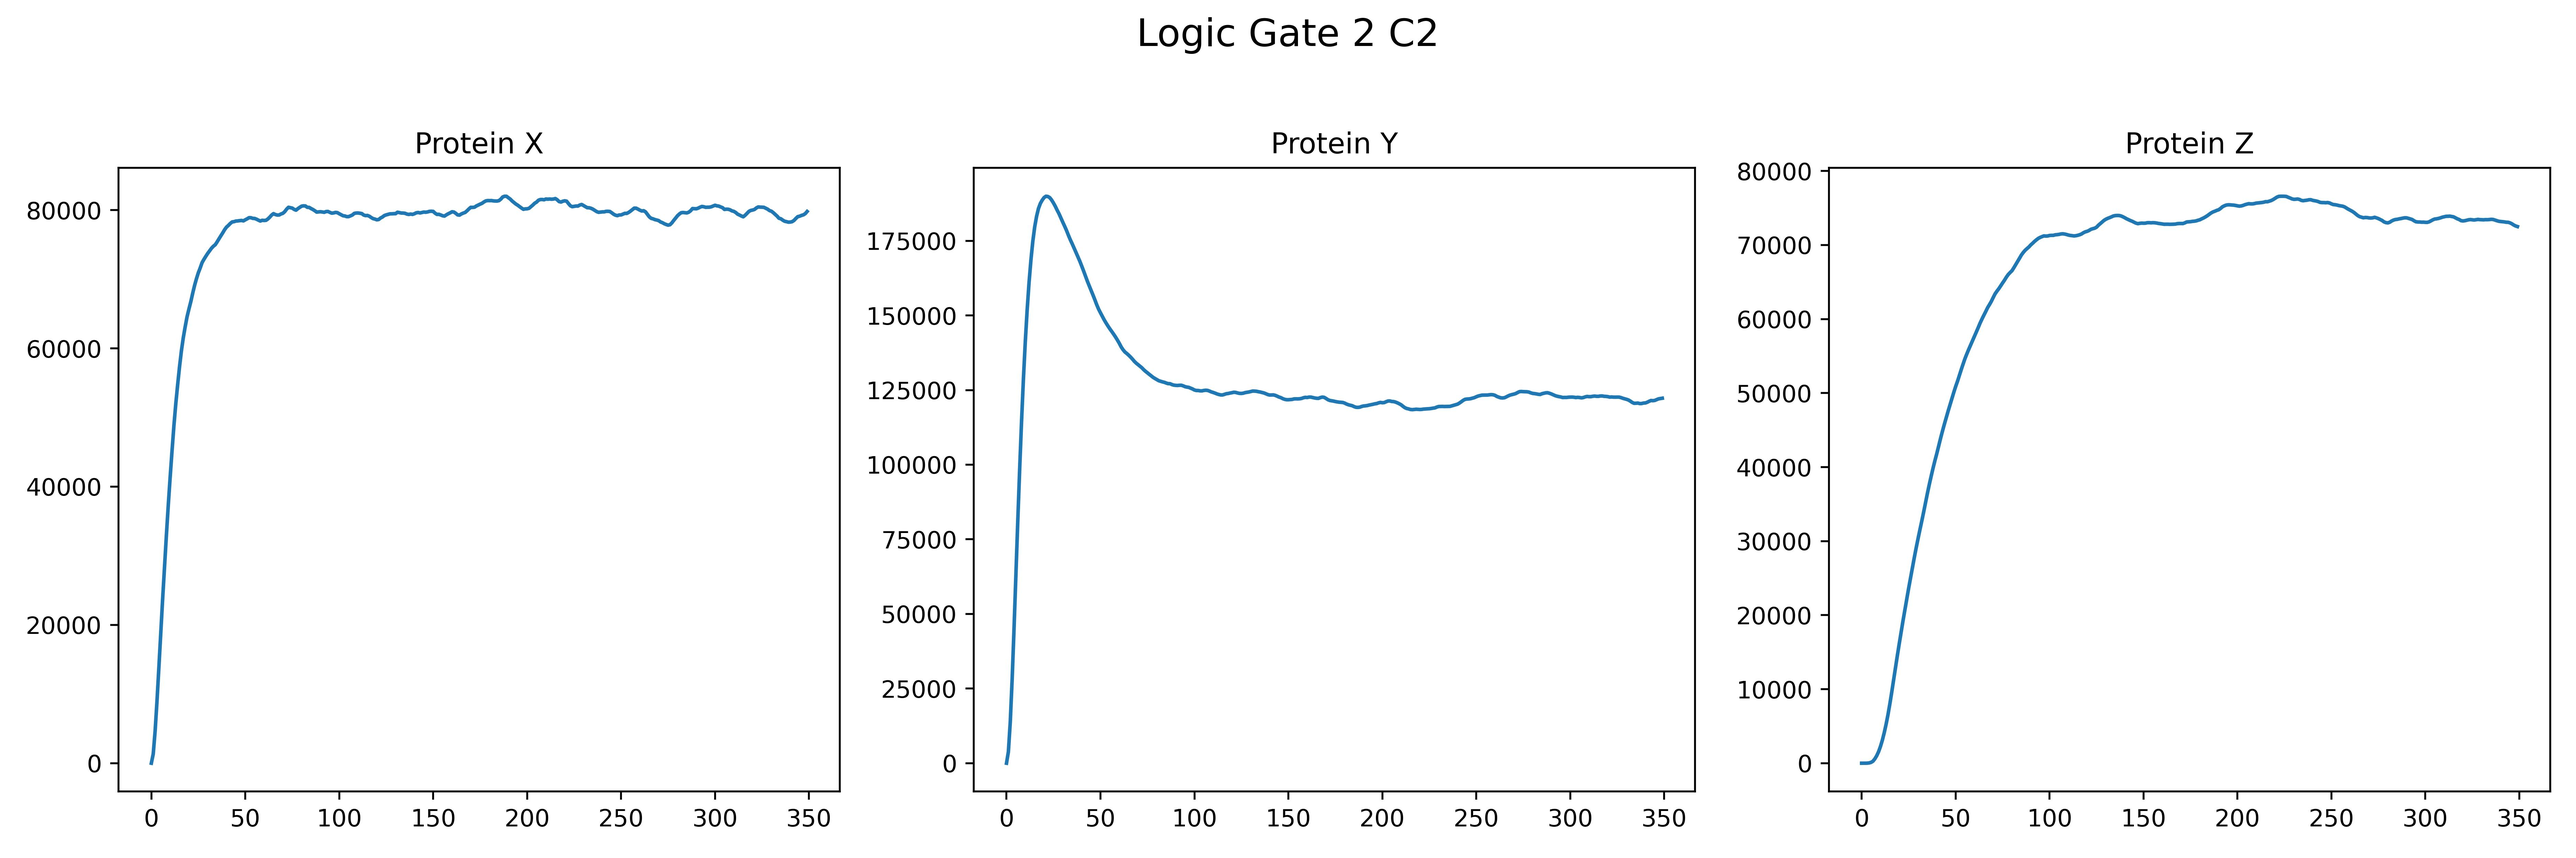
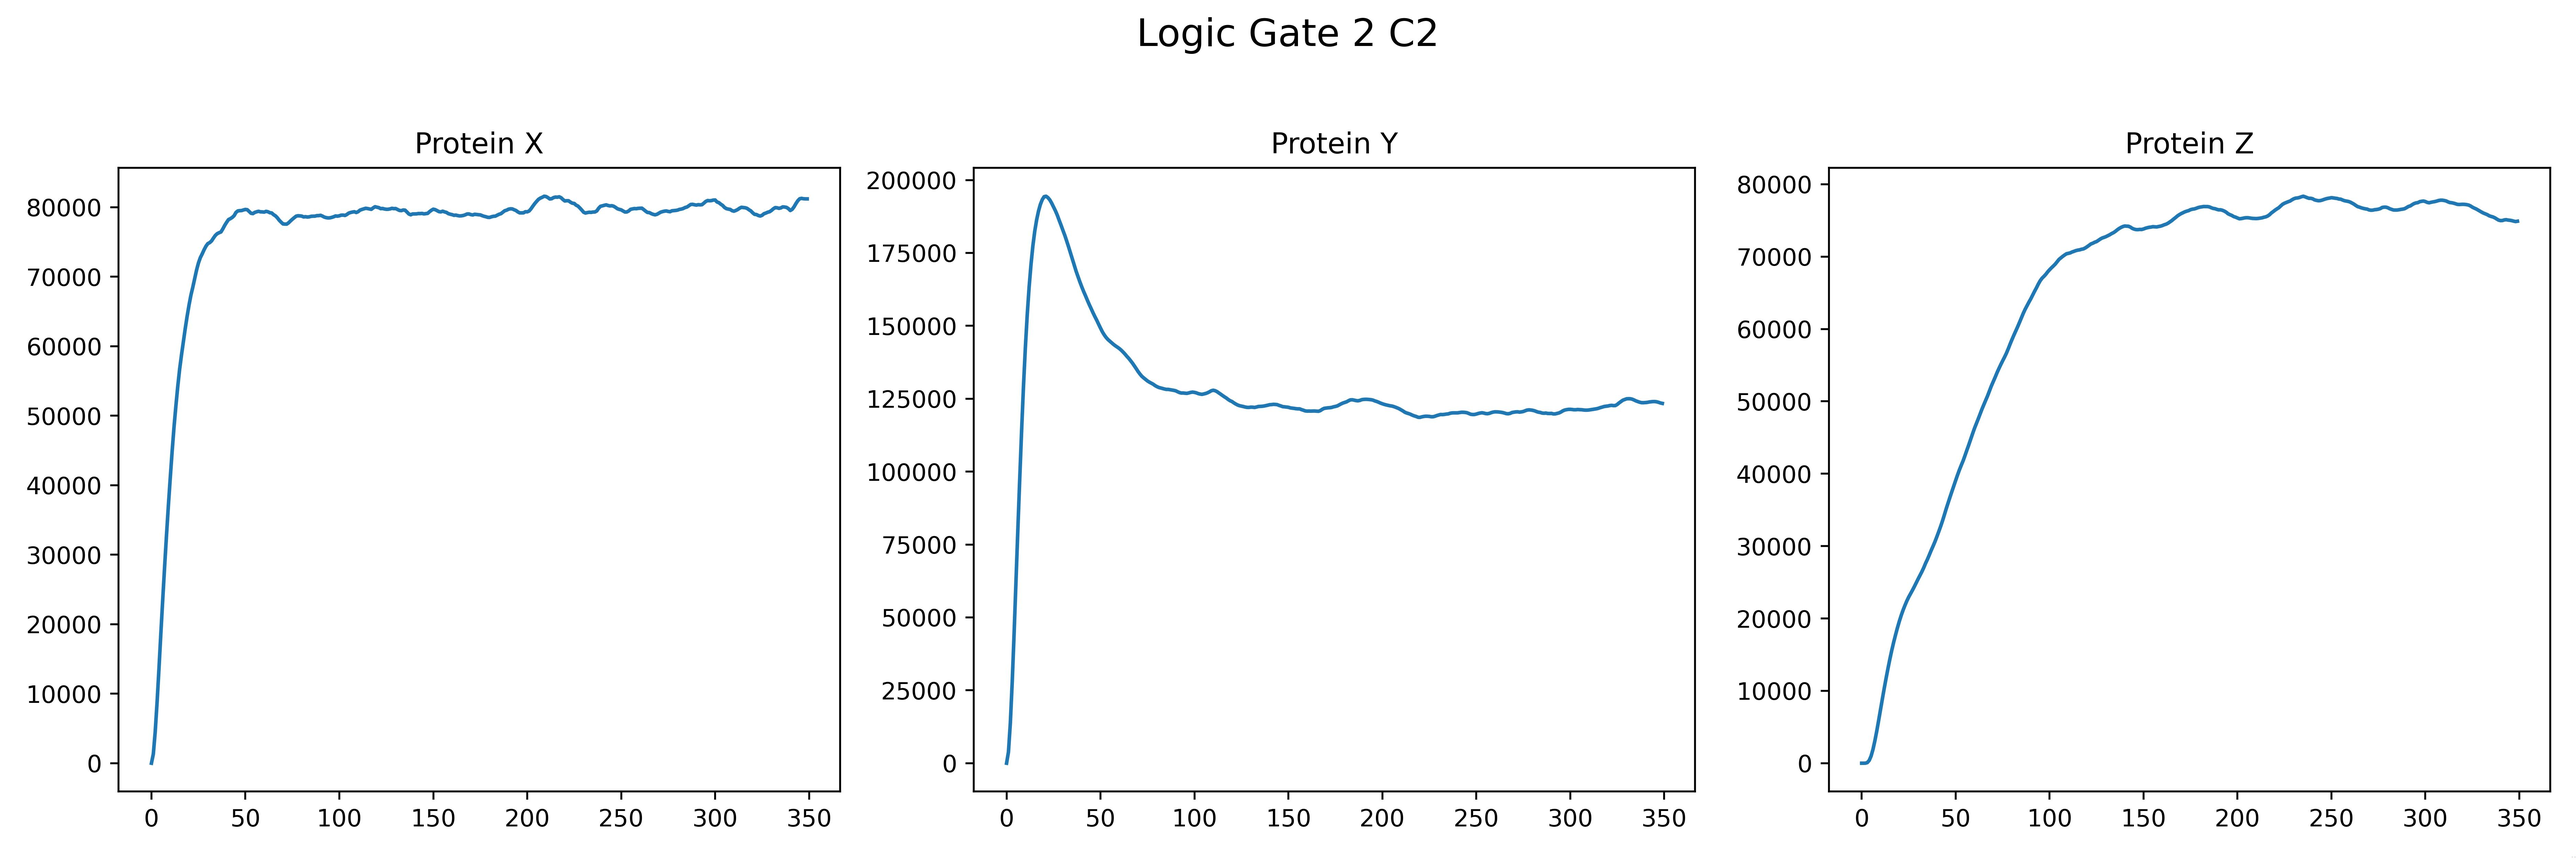
Updates

diff --git a/Logic_Gate_2(AND)/Scripts_Simulations/information_FFL_C2.py b/Logic_Gate_2(AND)/Scripts_Simulations/information_FFL_C2.py
@@ -49,8 +49,8 @@ for Hill in valores_posibles_Hill:
 
 
         Kxy  = valor_X_estacionario/2        #Coeficiente de interaccion proteina X con ARNmY
-        Kxz  = valor_X_estacionario         #Coeficiente de interaccion proteina X con ARNmZ
-        Kyz  = 2*valor_Y_estacionario         #Coeficiente de interaccion proteina Y con ARNmZ
+        Kxz  = valor_X_estacionario/2         #Coeficiente de interaccion proteina X con ARNmZ
+        Kyz  = valor_Y_estacionario/2         #Coeficiente de interaccion proteina Y con ARNmZ
 
         Ky = (My*gammamy)*(((valor_X_estacionario**Hill) + (Kxy**Hill))/(Kxy**Hill))
         Kz = (Mz*gammamz)*( (((valor_Y_estacionario**Hill) + (Kyz**Hill))*((valor_X_estacionario**Hill) + (Kxz **Hill))     )   /  ((valor_X_estacionario**Hill)*(Kyz**Hill))   )
